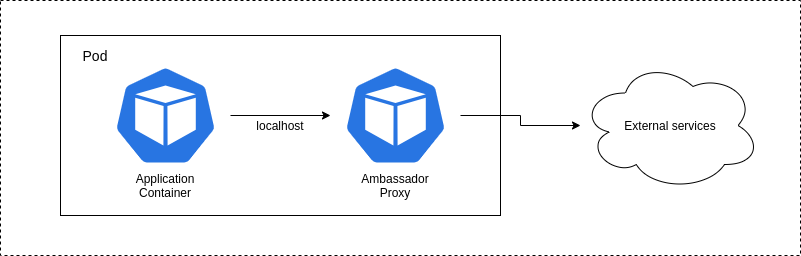
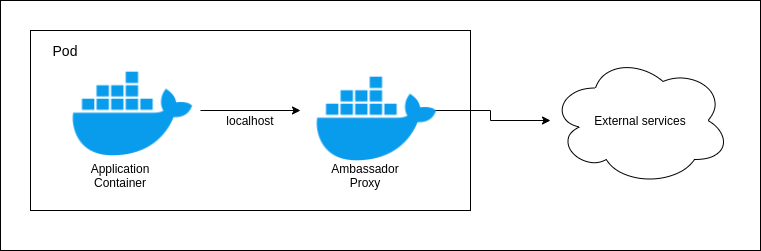
update images and readme

diff --git a/README.md b/README.md
@@ -12,9 +12,7 @@ The Ambassador is responsible to `discover` the external service address (this p
 
 ---
 
-## Examples
-
-This repo contains two examples where the Ambassador pattern may be applied to.
+## Example
 
 ### Sharded Redis
 
